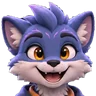
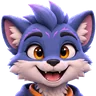
Landing hero: higher-resolution fox (candidate 1)
Johan picked candidate 1 of the regenerated greeting pose. The export
script pads it to the in-call greeting's aspect ratio and writes a
1000 px hero.webp plus a new face crop; cache version bumped.

Changed region(s): [[0.0, 0.0, 1.0, 1.0]]

diff --git a/web/src/bands.ts b/web/src/bands.ts
@@ -21,7 +21,7 @@ export type BandId = 'primary' | 'middle' | 'upper';
 export const POSE_VERSION = '20261119';
 
 // Own cache-bust version for the landing images (scripts/export_landing_companions.py).
-export const LANDING_IMG_VERSION = '20261124';
+export const LANDING_IMG_VERSION = '20261124b';
 
 function landingImages(directory: string): { hero: string; face: string } {
   return {

diff --git a/design/character/hires/rebuild.py b/design/character/hires/rebuild.py
@@ -1,0 +1,113 @@
+#!/usr/bin/env python3
+"""Rebuild transparent cut-outs and the review sheet from preserved raw renders.
+
+Run from the repository root:
+    uv run --with numpy --with scipy --with pillow python design/character/hires/rebuild.py
+"""
+
+import hashlib
+import json
+from pathlib import Path
+
+import numpy as np
+from PIL import Image, ImageDraw, ImageFont
+from scipy import ndimage
+
+HERE = Path(__file__).resolve().parent
+ROOT = HERE.parents[2]
+BACKGROUND = (24, 27, 34)
+BOTTOM = {1: 1430, 2: 1460, 3: 1460}
+NOSES = {0: (257, 230), 1: (517, 600), 2: (516, 616), 3: (518, 580)}
+
+
+def cut_out(number):
+    source = HERE / "raw" / f"greeting-generated-{number}.png"
+    rgb = np.asarray(Image.open(source).convert("RGB"), dtype=np.float32)
+    excess = rgb[:, :, 1] - np.maximum(rgb[:, :, 0], rgb[:, :, 2])
+    sure_bg = (excess > 190) & (rgb[:, :, 1] > 230)
+    sure_fg = excess <= 0
+    # As in the existing extraction scripts, keep foreground and background
+    # seeds distinct. Here chroma green cannot be confused with the navy hoodie.
+    bg_indices = ndimage.distance_transform_edt(~sure_bg, return_distances=False,
+                                              return_indices=True)
+    fg_indices = ndimage.distance_transform_edt(~sure_fg, return_distances=False,
+                                              return_indices=True)
+    bg = rgb[tuple(bg_indices)]
+    fg = rgb[tuple(fg_indices)]
+    direction = fg - bg
+    alpha = np.clip(np.sum((rgb - bg) * direction, axis=2) /
+                    np.maximum(np.sum(direction * direction, axis=2), 1), 0, 1)
+    alpha[sure_bg] = 0
+    alpha[sure_fg] = 1
+    labels, count = ndimage.label(alpha > 0.02)
+    sizes = np.bincount(labels.ravel())
+    sizes[0] = 0
+    keep = labels == sizes.argmax()
+    alpha[~keep] = 0
+    # Borrow nearby opaque colour for mixed edges. Inverting the green blend
+    # amplifies small matte errors into black specks visible on white.
+    color = np.where((excess > 0)[:, :, None], fg, rgb)
+    rgba = np.dstack((np.clip(color, 0, 255), alpha * 255)).astype(np.uint8)
+    ys, xs = np.nonzero(alpha > .03)
+    box = (max(0, int(xs.min()) - 3), max(0, int(ys.min()) - 3),
+           min(rgb.shape[1], int(xs.max()) + 4), BOTTOM[number])
+    rgba = rgba[box[1]:box[3], box[0]:box[2]].copy()
+    fade = round(rgba.shape[0] * .10)
+    rgba[-fade:, :, 3] = (rgba[-fade:, :, 3].astype(float) *
+                         np.linspace(1, 0, fade)[:, None]).astype(np.uint8)
+    # The built-in tool returned 948px-wide images despite the requested size.
+    # This small Lanczos resample makes the final width exactly 1024px.
+    result = Image.fromarray(rgba)
+    result = result.resize((1024, round(result.height * 1024 / result.width)), Image.Resampling.LANCZOS)
+    array = np.asarray(result).copy()
+    # Resampling can produce a few green edge pixels through ringing.
+    array[:, :, 1] = np.minimum(array[:, :, 1], np.maximum(array[:, :, 0], array[:, :, 2]))
+    array[array[:, :, 3] == 0, :3] = 0
+    result = Image.fromarray(array)
+    result.save(HERE / f"greeting-candidate-{number}.png", optimize=True)
+    return result, {"raw_size": [rgb.shape[1], rgb.shape[0]], "crop_box": box,
+                    "final_size": list(result.size), "raw_sha256": hashlib.sha256(source.read_bytes()).hexdigest()}
+
+
+def font(size):
+    return ImageFont.truetype("/usr/share/fonts/truetype/dejavu/DejaVuSans.ttf", size)
+
+
+def main():
+    current = Image.open(ROOT / "web/public/character/greeting.webp").convert("RGBA")
+    images = [current]
+    metadata = {}
+    for i in range(1, 4):
+        image, details = cut_out(i)
+        images.append(image)
+        metadata[str(i)] = details
+    (HERE / "metadata.json").write_text(json.dumps(metadata, indent=2) + "\n")
+
+    width, height, gap, display_height = 1040, 2340, 32, 1142
+    sheet = Image.new("RGB", (width * 4 + gap * 5, height), BACKGROUND)
+    draw = ImageDraw.Draw(sheet)
+    labels = ["Current · Lanczos reference", "Candidate 1 · rank 1", "Candidate 2 · rank 2", "Candidate 3 · rank 3"]
+    for i, (label, image) in enumerate(zip(labels, images)):
+        x = gap + i * (width + gap)
+        draw.text((x + 16, 36), label, font=font(42), fill=(243, 245, 248))
+        draw.text((x + 16, 100), f"{image.width} × {image.height} RGBA", font=font(34), fill=(155, 163, 180))
+        display = image.resize((round(image.width * display_height / image.height), display_height), Image.Resampling.LANCZOS)
+        sheet.paste(display, (x + (width - display.width) // 2, 176), display)
+        draw.text((x + 16, 1360), "Face detail · 2× display pixels", font=font(38), fill=(243, 245, 248))
+        nx, ny = NOSES[i]
+        if i:
+            raw_box = metadata[str(i)]["crop_box"]
+            nx = (nx - raw_box[0]) * image.width / (raw_box[2] - raw_box[0])
+            ny = (ny - raw_box[1]) * image.height / (raw_box[3] - raw_box[1])
+        scale = display_height / image.height
+        nx, ny = round(nx * scale), round(ny * scale)
+        crop = display.crop((nx - 230, ny - 200, nx + 230, ny + 210))
+        crop = crop.resize((920, 820), Image.Resampling.LANCZOS)
+        sheet.paste(crop, (x + 60, 1444), crop)
+    sheet.save(HERE / "compare.png", optimize=True)
+    print(json.dumps(metadata, indent=2))
+    print("Saved", HERE / "compare.png")
+
+
+if __name__ == "__main__":
+    main()

diff --git a/scripts/export_landing_companions.py b/scripts/export_landing_companions.py
@@ -9,10 +9,11 @@ For each age band this writes two files under web/public/character/:
   cross-link names. The crop boxes below were chosen by looking at the
   artwork: ears and the full face are visible in every band.
 
-Primary hero: PRIMARY_SOURCE below points at the shipped greeting.webp, so
-the script copies it byte-for-byte for now. When the higher-resolution fox
-arrives, point PRIMARY_SOURCE at the new file (and adjust FACE_CROPS if
-its framing differs) — no other change needed.
+Primary hero: the higher-resolution fox chosen by Johan on 2026-11-24
+(design/character/hires/greeting-candidate-1.png, see that folder's README).
+It is narrower than the in-call greeting.webp, so it is padded to the same
+aspect ratio (the page keeps its layout) and scaled to PRIMARY_WIDTH, enough
+for a ~460 CSS px hero on 2x screens.
 
 Run from the repo root: python3 scripts/export_landing_companions.py
 
@@ -24,7 +25,6 @@ Never modifies the existing pose WebP files or
 scripts/normalize_companion_poses.py — those serve the in-call avatar.
 """
 
-import shutil
 from pathlib import Path
 
 from PIL import Image
@@ -32,8 +32,10 @@ from PIL import Image
 ROOT = Path(__file__).resolve().parents[1]
 CHARACTER = ROOT / "web" / "public" / "character"
 
-# Higher-resolution fox arrives in a later change: point this at it then.
-PRIMARY_SOURCE = CHARACTER / "greeting.webp"
+PRIMARY_SOURCE = ROOT / "design" / "character" / "hires" / "greeting-candidate-1.png"
+# Same width:height as the in-call greeting.webp (486x571), and the export width.
+PRIMARY_ASPECT = 486 / 571
+PRIMARY_WIDTH = 1000
 
 HERO_SOURCES = {
     "primary": PRIMARY_SOURCE,
@@ -49,7 +51,7 @@ HERO_DIRS = {
 
 # Square head crops in each hero source's own pixels (left, top, right, bottom).
 FACE_CROPS = {
-    "primary": (62, 2, 412, 352),
+    "primary": (72, 0, 952, 880),
     "middle": (195, 10, 635, 450),
     "upper": (215, 55, 600, 440),
 }
@@ -62,16 +64,16 @@ def export_hero(band: str) -> None:
     if not src.is_file():
         raise FileNotFoundError(f"Band {band!r} hero source is missing: {src}")
     dest = HERO_DIRS[band] / "hero.webp"
-    if src == CHARACTER / "greeting.webp":
-        # Byte-for-byte copy: re-encoding the shipped WebP would only add
-        # generation loss until the hi-res fox arrives.
-        shutil.copyfile(src, dest)
-        print(f"Band {band}: copied {src.name} -> {dest.relative_to(ROOT)}.")
-        return
     image = Image.open(src)
     image.load()
     if image.mode != "RGBA":
         image = image.convert("RGBA")
+    if band == "primary":
+        width = round(image.height * PRIMARY_ASPECT)
+        canvas = Image.new("RGBA", (max(width, image.width), image.height), (0, 0, 0, 0))
+        canvas.paste(image, ((canvas.width - image.width) // 2, 0))
+        height = round(PRIMARY_WIDTH * canvas.height / canvas.width)
+        image = canvas.resize((PRIMARY_WIDTH, height), Image.LANCZOS)
     dest.parent.mkdir(parents=True, exist_ok=True)
     image.save(dest, "WEBP", quality=85, method=6)
     print(f"Band {band}: {src.relative_to(ROOT)} -> {dest.relative_to(ROOT)} ({image.size[0]}x{image.size[1]}).")

diff --git a/design/character/hires/README.md b/design/character/hires/README.md
@@ -1,0 +1,112 @@
+# Greeting pose: high-resolution candidates
+
+Date: 2026-11-24.
+
+Three reference-based re-renders of Räven for the landing-page hero. These are review assets. No file under `web/` changes.
+
+## Result and ranking
+
+None meets the strict "same image, only sharper and larger" goal. All retain the recognisable character, friendly gaze, open smile, clothes, and open palms. All change the head-to-hand proportions, eye and muzzle geometry, and clothing details. Do not treat these as an approved replacement.
+
+1. **Candidate 1** is the closest. The softer face and clothing treatment best match the reference. Its cheeks and nose are broader, and its hands are smaller relative to its head.
+2. **Candidate 2** has a similar silhouette and gesture. Its more symmetric face, rounder eyes, and stronger smile depart further from the reference.
+3. **Candidate 3** has crisp fur and fabric. Its face and garment shapes drift most, with extra garment construction and stronger texture.
+
+The raw renders extend the torso below the original crop. The cut-outs remove that extension and fade the lower sleeves and torso. Cropping does not restore the original proportions.
+
+## Files
+
+| File | Size | Purpose |
+|---|---|---|
+| `greeting-candidate-1.png` | 1024 × 1475, RGBA | Rank 1, transparent cut-out |
+| `greeting-candidate-2.png` | 1024 × 1482, RGBA | Rank 2, transparent cut-out |
+| `greeting-candidate-3.png` | 1024 × 1527, RGBA | Rank 3, transparent cut-out |
+| `raw/greeting-generated-{1,2,3}.png` | 948 × 1659, RGB | Unmodified generated images |
+| `raw/mockup-reference-crop.png` | 572 × 655 | Original mockup crop used as supporting reference |
+| `raw/prompts.json` | JSON | Exact complete prompts in candidate order |
+| `compare.png` | 4320 × 2340, RGB | Current asset and three candidates on `#181b22`, plus face crops |
+| `metadata.json` | JSON | Source checksums, crop coordinates, and output dimensions |
+| `rebuild.py` | Python | Reproducible cut-out and comparison processing |
+
+The comparison uses the same 1142 px display height for all figures. The current asset is enlarged 2× with Lanczos. Each lower face panel magnifies a crop of its upper figure by another 2×. The comparison has editorial labels. The companion cut-outs contain no text.
+
+## Tool and references
+
+Generation used the built-in `image_gen.imagegen` tool, with three separate edit requests and `transparent_background=false`. The tool did not expose an underlying model identifier.
+
+Both images were passed as local references, in this order:
+
+1. `web/public/character/greeting.webp`, the identity and pose reference.
+2. `raw/mockup-reference-crop.png`, cropped from `design/mockups/pass-2/02-greeting.png` at `(1000, 25, 1572, 680)`.
+
+The requested portrait size was approximately 1536 × 1792. The tool returned 948 × 1659 for every candidate. The final cut-outs use a small Lanczos enlargement to reach 1024 px width. These are generated detail plus resampling, not native 1024 px renders or faithful super-resolution of the original pixels.
+
+## Extraction
+
+`rebuild.py` uses Pillow, NumPy, and SciPy. The extraction follows the existing scripts' separation of foreground and background, largest connected component cleanup, and 10% bottom fade. Chroma green replaces the ambiguous dark background from the original mockup.
+
+The script identifies definite green background and definite foreground, estimates mixed edge pixels from nearby samples, and removes green from those edge colours. It keeps the largest connected component, crops the torso, and applies the fade. It preserves opaque interior colours. Fully transparent pixels have zero RGB.
+
+To rebuild the committed outputs from the preserved raw images:
+
+```bash
+uv run --with numpy --with scipy --with pillow python design/character/hires/rebuild.py
+```
+
+## Exact prompts
+
+Each request used the same two references listed above. The following text is preserved verbatim. `raw/prompts.json` contains the same strings in machine-readable form.
+
+### Candidate 1
+
+```text
+Use case: identity-preserve.
+Asset type: Open Tutor landing-page hero companion, high-resolution restoration.
+Input image 1 is the EDIT TARGET: the existing transparent greeting.webp cut-out. Input image 2 is a supporting crop of the original mockup to clarify fine details only; ignore its background and stray UI.
+Primary request: faithfully restore/upscale exactly the existing character and greeting pose; do not redesign or reinterpret it. Produce a single large portrait image at approximately 1536 x 1792 pixels, with the character filling the frame in the same proportions and framing as image 1. It must look like precisely the same character when placed beside the original in-app poses.
+Invariants: same front-facing slate/periwinkle-blue fox-like creature, same large pointed ears and pale pink inner ears, same asymmetric swept three-tuft hair silhouette, same violet/pink brow markings and thick dark brows, same wide amber eyes looking directly at the viewer, same short rounded muzzle and black rounded triangular nose, pale cheek fur, tiny muzzle freckles, same friendly open smile with small pointed teeth and visible tongue, same head/body proportions and facial geometry. Same navy hoodie with cyan zipper/lapel trim, orange neckerchief with the same folds, pale undershirt and tiny gold buttons, small violet outlined downward triangle badge on viewer-left chest. Same waist-up pose with BOTH open palms extended toward the viewer at the bottom, same rounded fingers, hand positions, sleeve folds and camera angle. Keep the existing soft stylized 3D render, lighting direction and colors. Add only faithful sharp detail, not new features.
+Backdrop: completely plain perfectly flat chroma-key green #00FF00, including between fingers and beside the silhouette; no shadows or gradients on the green backdrop. This green is absent from the character. Finish torso below the hands so the final cutout can have a soft bottom fade.
+Constraints: no wings, no extra fingers, no accessories, no background scene, no props, no text, no letters, no logo, no watermark. The tiny triangle clothing badge is a geometric marking, not a logo to invent.
+Restoration priority: match the edit target as exactly as possible; preserve its soft polished surfaces and original expression, with restrained fine fur detail.
+```
+
+### Candidate 2
+
+```text
+Use case: identity-preserve.
+Asset type: Open Tutor landing-page hero companion, high-resolution restoration.
+Input image 1 is the EDIT TARGET: the existing transparent greeting.webp cut-out. Input image 2 is a supporting crop of the original mockup to clarify fine details only; ignore its background and stray UI.
+Primary request: faithfully restore/upscale exactly the existing character and greeting pose; do not redesign or reinterpret it. Produce a single large portrait image at approximately 1536 x 1792 pixels, with the character filling the frame in the same proportions and framing as image 1. It must look like precisely the same character when placed beside the original in-app poses.
+Invariants: same front-facing slate/periwinkle-blue fox-like creature, same large pointed ears and pale pink inner ears, same asymmetric swept three-tuft hair silhouette, same violet/pink brow markings and thick dark brows, same wide amber eyes looking directly at the viewer, same short rounded muzzle and black rounded triangular nose, pale cheek fur, tiny muzzle freckles, same friendly open smile with small pointed teeth and visible tongue, same head/body proportions and facial geometry. Same navy hoodie with cyan zipper/lapel trim, orange neckerchief with the same folds, pale undershirt and tiny gold buttons, small violet outlined downward triangle badge on viewer-left chest. Same waist-up pose with BOTH open palms extended toward the viewer at the bottom, same rounded fingers, hand positions, sleeve folds and camera angle. Keep the existing soft stylized 3D render, lighting direction and colors. Add only faithful sharp detail, not new features.
+Backdrop: completely plain perfectly flat chroma-key green #00FF00, including between fingers and beside the silhouette; no shadows or gradients on the green backdrop. This green is absent from the character. Finish torso below the hands so the final cutout can have a soft bottom fade.
+Constraints: no wings, no extra fingers, no accessories, no background scene, no props, no text, no letters, no logo, no watermark. The tiny triangle clothing badge is a geometric marking, not a logo to invent.
+Restoration priority: keep the exact face and silhouette of the edit target, particularly eye shape, cheek width, muzzle length, hair curves and palm anatomy. Preserve the original soft texture rather than making realistic fur.
+```
+
+### Candidate 3
+
+```text
+Use case: identity-preserve.
+Asset type: Open Tutor landing-page hero companion, high-resolution restoration.
+Input image 1 is the EDIT TARGET: the existing transparent greeting.webp cut-out. Input image 2 is a supporting crop of the original mockup to clarify fine details only; ignore its background and stray UI.
+Primary request: faithfully restore/upscale exactly the existing character and greeting pose; do not redesign or reinterpret it. Produce a single large portrait image at approximately 1536 x 1792 pixels, with the character filling the frame in the same proportions and framing as image 1. It must look like precisely the same character when placed beside the original in-app poses.
+Invariants: same front-facing slate/periwinkle-blue fox-like creature, same large pointed ears and pale pink inner ears, same asymmetric swept three-tuft hair silhouette, same violet/pink brow markings and thick dark brows, same wide amber eyes looking directly at the viewer, same short rounded muzzle and black rounded triangular nose, pale cheek fur, tiny muzzle freckles, same friendly open smile with small pointed teeth and visible tongue, same head/body proportions and facial geometry. Same navy hoodie with cyan zipper/lapel trim, orange neckerchief with the same folds, pale undershirt and tiny gold buttons, small violet outlined downward triangle badge on viewer-left chest. Same waist-up pose with BOTH open palms extended toward the viewer at the bottom, same rounded fingers, hand positions, sleeve folds and camera angle. Keep the existing soft stylized 3D render, lighting direction and colors. Add only faithful sharp detail, not new features.
+Backdrop: completely plain perfectly flat chroma-key green #00FF00, including between fingers and beside the silhouette; no shadows or gradients on the green backdrop. This green is absent from the character. Finish torso below the hands so the final cutout can have a soft bottom fade.
+Constraints: no wings, no extra fingers, no accessories, no background scene, no props, no text, no letters, no logo, no watermark. The tiny triangle clothing badge is a geometric marking, not a logo to invent.
+Restoration priority: meticulous reference fidelity across the entire figure. Reconstruct small details at higher sampling resolution while preserving the original smooth stylized game-character rendering, original smile and relaxed welcoming hands.
+```
+
+
+## Verification and limits
+
+Inspected the original cut-out, mockup, raw renders, and final dark-background comparison. Checked the final PNG dimensions, RGBA mode, fully transparent background, opaque interior, and transparent bottom row. Checked cut-outs against a light background as an edge review.
+
+No application code changed. No app test suite, browser integration, provider voice call, or real-child session ran. Nothing was deployed. The lead owns selection and integration.
+
+## Selection (2026-11-24)
+
+Johan chose **candidate 1**. It is the landing hero for the primary band
+(`scripts/export_landing_companions.py` pads it to the in-call greeting's aspect ratio and
+exports `web/public/character/hero.webp` at 1000 px wide). The in-call poses are unchanged.
+Only candidate 1 and the comparison are kept here; candidates 2 and 3 and the raw renders
+remain on the branch `feat/landing-fox-hires`.
